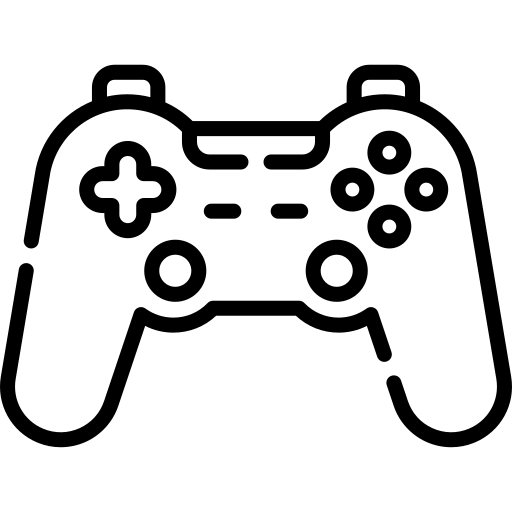
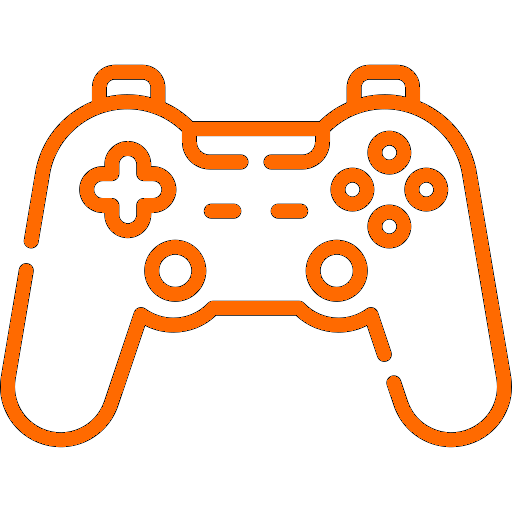
Add new styling for a dark theme

diff --git a/resources/js/Pages/Dashboard/Partials/PlaySessionTile.vue b/resources/js/Pages/Dashboard/Partials/PlaySessionTile.vue
@@ -153,7 +153,7 @@ const onClickNotesSubmit = async () => {
 <template>
     <div
         :class="getBorderColor()"
-        class="blocksm:p-6 border-2 border-white-100 mb-5 sm:rounded-lg shadow bg-gray-800 hover:bg-gray-700"
+        class="blocksm:p-6 border-2 border-gray-600 mb-5 sm:rounded-lg shadow bg-gray-800 hover:bg-gray-700"
     >
         <div
             class="relative flex justify-center sm:hidden block w-full max-h-54 overflow-hidden"
@@ -193,7 +193,7 @@ const onClickNotesSubmit = async () => {
                         <div class="w-100">
                             <p
                                 v-if="!sessionEndTime"
-                                class="text-s sm:text-lg font-normal text-gray-400 mb-4"
+                                class="text-s sm:text-lg font-normal text-gray-200 mb-4"
                             >
                                 Current session <br class="sm:hidden" />
                                 <strong>
@@ -208,20 +208,20 @@ const onClickNotesSubmit = async () => {
                             </p>
                             <p
                                 v-if="sessionEndTime"
-                                class="text-xs sm:text-lg font-bold text-gray-400 mb-3"
+                                class="text-xs sm:text-lg font-bold text-gray-200 mb-3"
                             >
                                 Duration
                                 <strong>{{ durationHumanized }}</strong>
                             </p>
                             <div class="flex justify-normal sm:block">
                                 <p
-                                    class="text-xs pr-2 sm:text-lg font-normal text-gray-400"
+                                    class="text-xs pr-2 sm:text-lg font-normal text-gray-200"
                                 >
                                     Playtime <strong>{{ playtime }}h</strong>
                                 </p>
                                 <p
                                     v-if="estimatedPlaytime"
-                                    class="text-xs pr-2 sm:text-lg font-normal text-gray-400"
+                                    class="text-xs pr-2 sm:text-lg font-normal text-gray-200"
                                 >
                                     Projected time
                                     <strong
@@ -232,7 +232,7 @@ const onClickNotesSubmit = async () => {
                                 </p>
                                 <p
                                     v-if="gameConsole"
-                                    class="text-xs pr-2 sm:text-lg font-normal text-gray-400"
+                                    class="text-xs pr-2 sm:text-lg font-normal text-gray-200"
                                 >
                                     Playing on
                                     <strong>{{ gameConsole }}</strong>
@@ -243,7 +243,7 @@ const onClickNotesSubmit = async () => {
                                     v-if="notes == null"
                                     @click="onClickNotes"
                                     for="message"
-                                    class="opacity-50 block mb-2 mt-3 text-sm font-medium text-white"
+                                    class="block mb-2 mt-3 text-sm font-medium text-gray-400"
                                     >Notes</label
                                 >
                                 <div>

diff --git a/resources/js/Layouts/AuthenticatedLayout.vue b/resources/js/Layouts/AuthenticatedLayout.vue
@@ -12,16 +12,16 @@ const showingNavigationDropdown = ref(false);
 <template>
     <div>
         <div class="min-h-screen bg-gray-900">
-            <nav class="bg-white border-b border-gray-100">
+            <nav class="bg-gray-800 border-b border-gray-100">
                 <!-- Primary Navigation Menu -->
                 <div class="max-w-7xl mx-auto px-4 sm:px-6 lg:px-8">
                     <div class="flex justify-between h-16">
                         <div class="flex">
                             <!-- Logo -->
-                            <div class="shrink-0 flex items-center">
+                            <div class="shrink-0 flex items-center mr-5">
                                 <ApplicationLogo />
                                 <h2
-                                    class="font-semibold text-l text-gray-800 leading-tight pr-5"
+                                    class="font-semibold text-l text-orange-300 leading-tight pr-5"
                                 >
                                     Game Session Logger
                                 </h2>
@@ -57,7 +57,7 @@ const showingNavigationDropdown = ref(false);
                                         <span class="inline-flex rounded-md">
                                             <button
                                                 type="button"
-                                                class="inline-flex items-center px-3 py-2 border border-transparent text-sm leading-4 font-medium rounded-md text-gray-500 bg-white hover:text-gray-700 focus:outline-none transition ease-in-out duration-150"
+                                                class="inline-flex items-center px-3 py-2 border border-transparent text-sm leading-4 font-medium rounded-md text-white hover:text-gray-700 focus:outline-none transition ease-in-out duration-150"
                                             >
                                                 {{ $page.props.auth.user.name }}
 
@@ -102,7 +102,7 @@ const showingNavigationDropdown = ref(false);
                                     showingNavigationDropdown =
                                         !showingNavigationDropdown
                                 "
-                                class="inline-flex items-center justify-center p-2 rounded-md text-gray-400 hover:text-gray-500 hover:bg-gray-100 focus:outline-none focus:bg-gray-100 focus:text-gray-500 transition duration-150 ease-in-out"
+                                class="inline-flex items-center justify-center p-2 rounded-md text-gray-400 bg-gray-800 hover:text-white hover:bg-gray-700 focus:outline-none focus:bg-gray-700 focus:text-white transition duration-150 ease-in-out"
                             >
                                 <svg
                                     class="h-6 w-6"

diff --git a/resources/js/Pages/Dashboard/CreateSession.vue b/resources/js/Pages/Dashboard/CreateSession.vue
@@ -67,9 +67,9 @@ onMounted(() => {
 <template>
     <section class="space-y-6 mt-5">
         <div
-            class="sm:w-fit ml-2 mr-2 flex items-center justify-between bg-white overflow-hidden shadow-sm rounded-lg"
+            class="sm:w-fit ml-2 mr-2 flex items-center justify-between bg-gray-700 overflow-hidden shadow-sm rounded-lg"
         >
-            <div class="p-6 text-gray-900">Start a new gaming session</div>
+            <div class="p-6 text-white">Start a new gaming session</div>
             <PrimaryButton @click="showCreateSessionModal" class="mr-6"
                 >start</PrimaryButton
             >
@@ -84,7 +84,7 @@ onMounted(() => {
 
         <Modal :show="showingCreateSessionModal" @close="onCancel">
             <div class="p-6">
-                <h2 class="text-lg font-extrabold text-gray-900">
+                <h2 class="text-lg font-extrabold text-white">
                     Start a new game session
                 </h2>
                 <div class="flex place-content-between">
@@ -100,7 +100,7 @@ onMounted(() => {
                                 v-model="selectedGame"
                                 :disabled="!hasGames || showingAddNewGameForm"
                                 id="games"
-                                class="disabled:bg-slate-200 border text-sm rounded-lg focus:ring-blue-500 focus:border-blue-500 block w-full p-2.5 bg-gray-700 border-gray-600 placeholder-gray-400 text-white"
+                                class="disabled:bg-gray-400 disabled:text-gray-500 border text-sm rounded-lg focus:ring-blue-500 focus:border-blue-500 block w-full p-2.5 bg-gray-700 border-gray-600 placeholder-gray-400 text-white"
                             >
                                 <option selected value="">Select a game</option>
                                 <option v-for="game in games" :value="game">

diff --git a/resources/js/Pages/Stats/Partials/LineChart.vue b/resources/js/Pages/Stats/Partials/LineChart.vue
@@ -39,7 +39,7 @@ export default defineComponent({
                         enabled: false,
                     },
                 },
-                colors: ["#1f2937"],
+                colors: ["#f97316"],
                 dataLabels: {
                     enabled: false,
                 },
@@ -49,6 +49,11 @@ export default defineComponent({
                 title: {
                     text: props.title,
                     align: "left",
+                    style: {
+                        fontWeight: "bold",
+                        fontFamily: undefined,
+                        color: "white",
+                    },
                 },
                 grid: {
                     row: {
@@ -58,6 +63,26 @@ export default defineComponent({
                 },
                 xaxis: {
                     categories: props.xAxis,
+                    labels: {
+                        style: {
+                            colors: "#ffffff",
+                            fontSize: "12px",
+                            fontFamily: "Helvetica, Arial, sans-serif",
+                            fontWeight: 400,
+                            cssClass: "apexcharts-xaxis-label",
+                        },
+                    },
+                },
+                yaxis: {
+                    labels: {
+                        style: {
+                            colors: "#ffffff",
+                            fontSize: "12px",
+                            fontFamily: "Helvetica, Arial, sans-serif",
+                            fontWeight: 400,
+                            cssClass: "apexcharts-xaxis-label",
+                        },
+                    },
                 },
             };
         });

diff --git a/resources/js/Components/ResponsiveNavLink.vue b/resources/js/Components/ResponsiveNavLink.vue
@@ -14,8 +14,8 @@ const props = defineProps({
 
 const classes = computed(() =>
     props.active
-        ? "block w-full ps-3 pe-4 py-2 border-l-4 border-indigo-400 text-start text-base font-medium text-indigo-700 bg-indigo-50 focus:outline-none focus:text-indigo-800 focus:bg-indigo-100 focus:border-indigo-700 transition duration-150 ease-in-out"
-        : "block w-full ps-3 pe-4 py-2 border-l-4 border-transparent text-start text-base font-medium text-gray-600 hover:text-gray-800 hover:bg-gray-50 hover:border-gray-300 focus:outline-none focus:text-gray-800 focus:bg-gray-50 focus:border-gray-300 transition duration-150 ease-in-out"
+        ? "block w-full ps-3 pe-4 py-2 border-l-4 border-indigo-600 text-start text-base font-medium text-orange-300 bg-gray-600 focus:outline-none focus:text-indigo-800 focus:bg-indigo-100 focus:border-indigo-700 transition duration-150 ease-in-out"
+        : "block w-full ps-3 pe-4 py-2 border-l-4 border-transparent text-start text-base font-medium text-gray-400 hover:text-gray-800 hover:bg-gray-50 hover:border-gray-300 focus:outline-none focus:text-gray-800 focus:bg-gray-50 focus:border-gray-300 transition duration-150 ease-in-out"
 );
 </script>
 

diff --git a/resources/js/Components/NavLink.vue b/resources/js/Components/NavLink.vue
@@ -14,8 +14,8 @@ const props = defineProps({
 
 const classes = computed(() =>
     props.active
-        ? "inline-flex items-center px-1 pt-1 border-b-2 border-indigo-400 text-sm font-medium leading-5 text-gray-900 focus:outline-none focus:border-indigo-700 transition duration-150 ease-in-out"
-        : "inline-flex items-center px-1 pt-1 border-b-2 border-transparent text-sm font-medium leading-5 text-gray-500 hover:text-gray-700 hover:border-gray-300 focus:outline-none focus:text-gray-700 focus:border-gray-300 transition duration-150 ease-in-out"
+        ? "inline-flex items-center px-1 pt-1 border-b-2 border-indigo-600 text-sm font-medium leading-5 text-orange-300 focus:outline-none focus:border-indigo-700 transition duration-150 ease-in-out"
+        : "inline-flex items-center px-1 pt-1 border-b-2 border-transparent text-sm font-medium leading-5 text-gray-400 hover:text-gray-700 hover:border-gray-300 focus:outline-none focus:text-gray-700 focus:border-gray-300 transition duration-150 ease-in-out"
 );
 </script>
 

diff --git a/resources/js/Components/PrimaryButton.vue b/resources/js/Components/PrimaryButton.vue
@@ -1,6 +1,6 @@
 <template>
     <button
-        class="inline-flex items-center px-4 py-2 bg-gray-800 border border-transparent rounded-md font-semibold text-xs text-white uppercase disabled:opacity-50 tracking-widest hover:bg-gray-700 focus:bg-gray-700 active:bg-gray-900 focus:outline-none focus:ring-2 focus:ring-indigo-500 focus:ring-offset-2 transition ease-in-out duration-150"
+        class="inline-flex items-center px-4 py-2 bg-orange-700 border border-transparent rounded-md font-semibold text-xs text-white uppercase disabled:opacity-50 tracking-widest hover:bg-orange-600 focus:bg-gray-700 active:bg-gray-900 focus:outline-none focus:ring-2 focus:ring-indigo-500 focus:ring-offset-2 transition ease-in-out duration-150"
     >
         <slot />
     </button>

diff --git a/resources/js/Components/NumberInput.vue b/resources/js/Components/NumberInput.vue
@@ -12,7 +12,7 @@ const model = defineModel({
         type="number"
         id="number-input"
         aria-describedby="helper-text-explanation"
-        class="border text-sm rounded-lg block w-1/4 p-2.5 bg-gray-700 border-gray-600 placeholder-gray-400 text-white focus:ring-blue-500 focus:border-blue-500"
+        class="border text-sm rounded-lg block w-1/4 p-2.5 bg-gray-800 border-gray-600 placeholder-gray-400 text-white focus:ring-blue-500 focus:border-blue-500"
         placeholder="0"
         required
         v-model="model"

diff --git a/resources/js/Components/Modal.vue b/resources/js/Components/Modal.vue
@@ -94,7 +94,7 @@ const maxWidthClass = computed(() => {
                 >
                     <div
                         v-show="show"
-                        class="mb-6 bg-white rounded-lg overflow-hidden shadow-xl transform transition-all sm:w-full sm:mx-auto"
+                        class="mb-6 bg-gray-900 rounded-lg overflow-hidden shadow-xl transform transition-all sm:w-full sm:mx-auto"
                         :class="maxWidthClass"
                     >
                         <slot v-if="show" />

diff --git a/resources/js/Components/DropdownLink.vue b/resources/js/Components/DropdownLink.vue
@@ -12,7 +12,7 @@ defineProps({
 <template>
     <Link
         :href="href"
-        class="block w-full px-4 py-2 text-start text-sm leading-5 text-gray-700 hover:bg-gray-100 focus:outline-none focus:bg-gray-100 transition duration-150 ease-in-out"
+        class="block w-full px-4 py-2 text-start text-sm leading-5 text-white hover:bg-gray-500 focus:outline-none focus:bg-gray-100 transition duration-150 ease-in-out"
     >
         <slot />
     </Link>

diff --git a/resources/js/Pages/Dashboard/Partials/AddNewGameForm.vue b/resources/js/Pages/Dashboard/Partials/AddNewGameForm.vue
@@ -108,7 +108,7 @@ onMounted(() => fetchGetUniqueConsoles());
         <img
             v-if="thumbnailUrl"
             ref="newGameCoverArt"
-            class="shadow-md shadow-gray-400 object-center object-cover h-28 w-24 rounded-lg ml-5 mt-5 sm:h-36 sm:w-24"
+            class="shadow-md shadow-gray-700 object-center object-cover h-28 w-24 rounded-lg ml-5 mt-5 sm:h-36 sm:w-24"
         />
         <InputLabel
             for="console"

diff --git a/resources/js/Pages/Stats/Stats.vue b/resources/js/Pages/Stats/Stats.vue
@@ -48,7 +48,7 @@ onMounted(() => {
     <AuthenticatedLayout>
         <div class="max-w-4xl mx-auto mt-10">
             <div class="pl-4 pr-4">
-                <h1 class="text-2xl font-extrabold text-gray-900">
+                <h1 class="text-2xl font-extrabold text-white mb-5">
                     Total Game Playtime
                 </h1>
                 <form class="max-w-sm mt-3">
